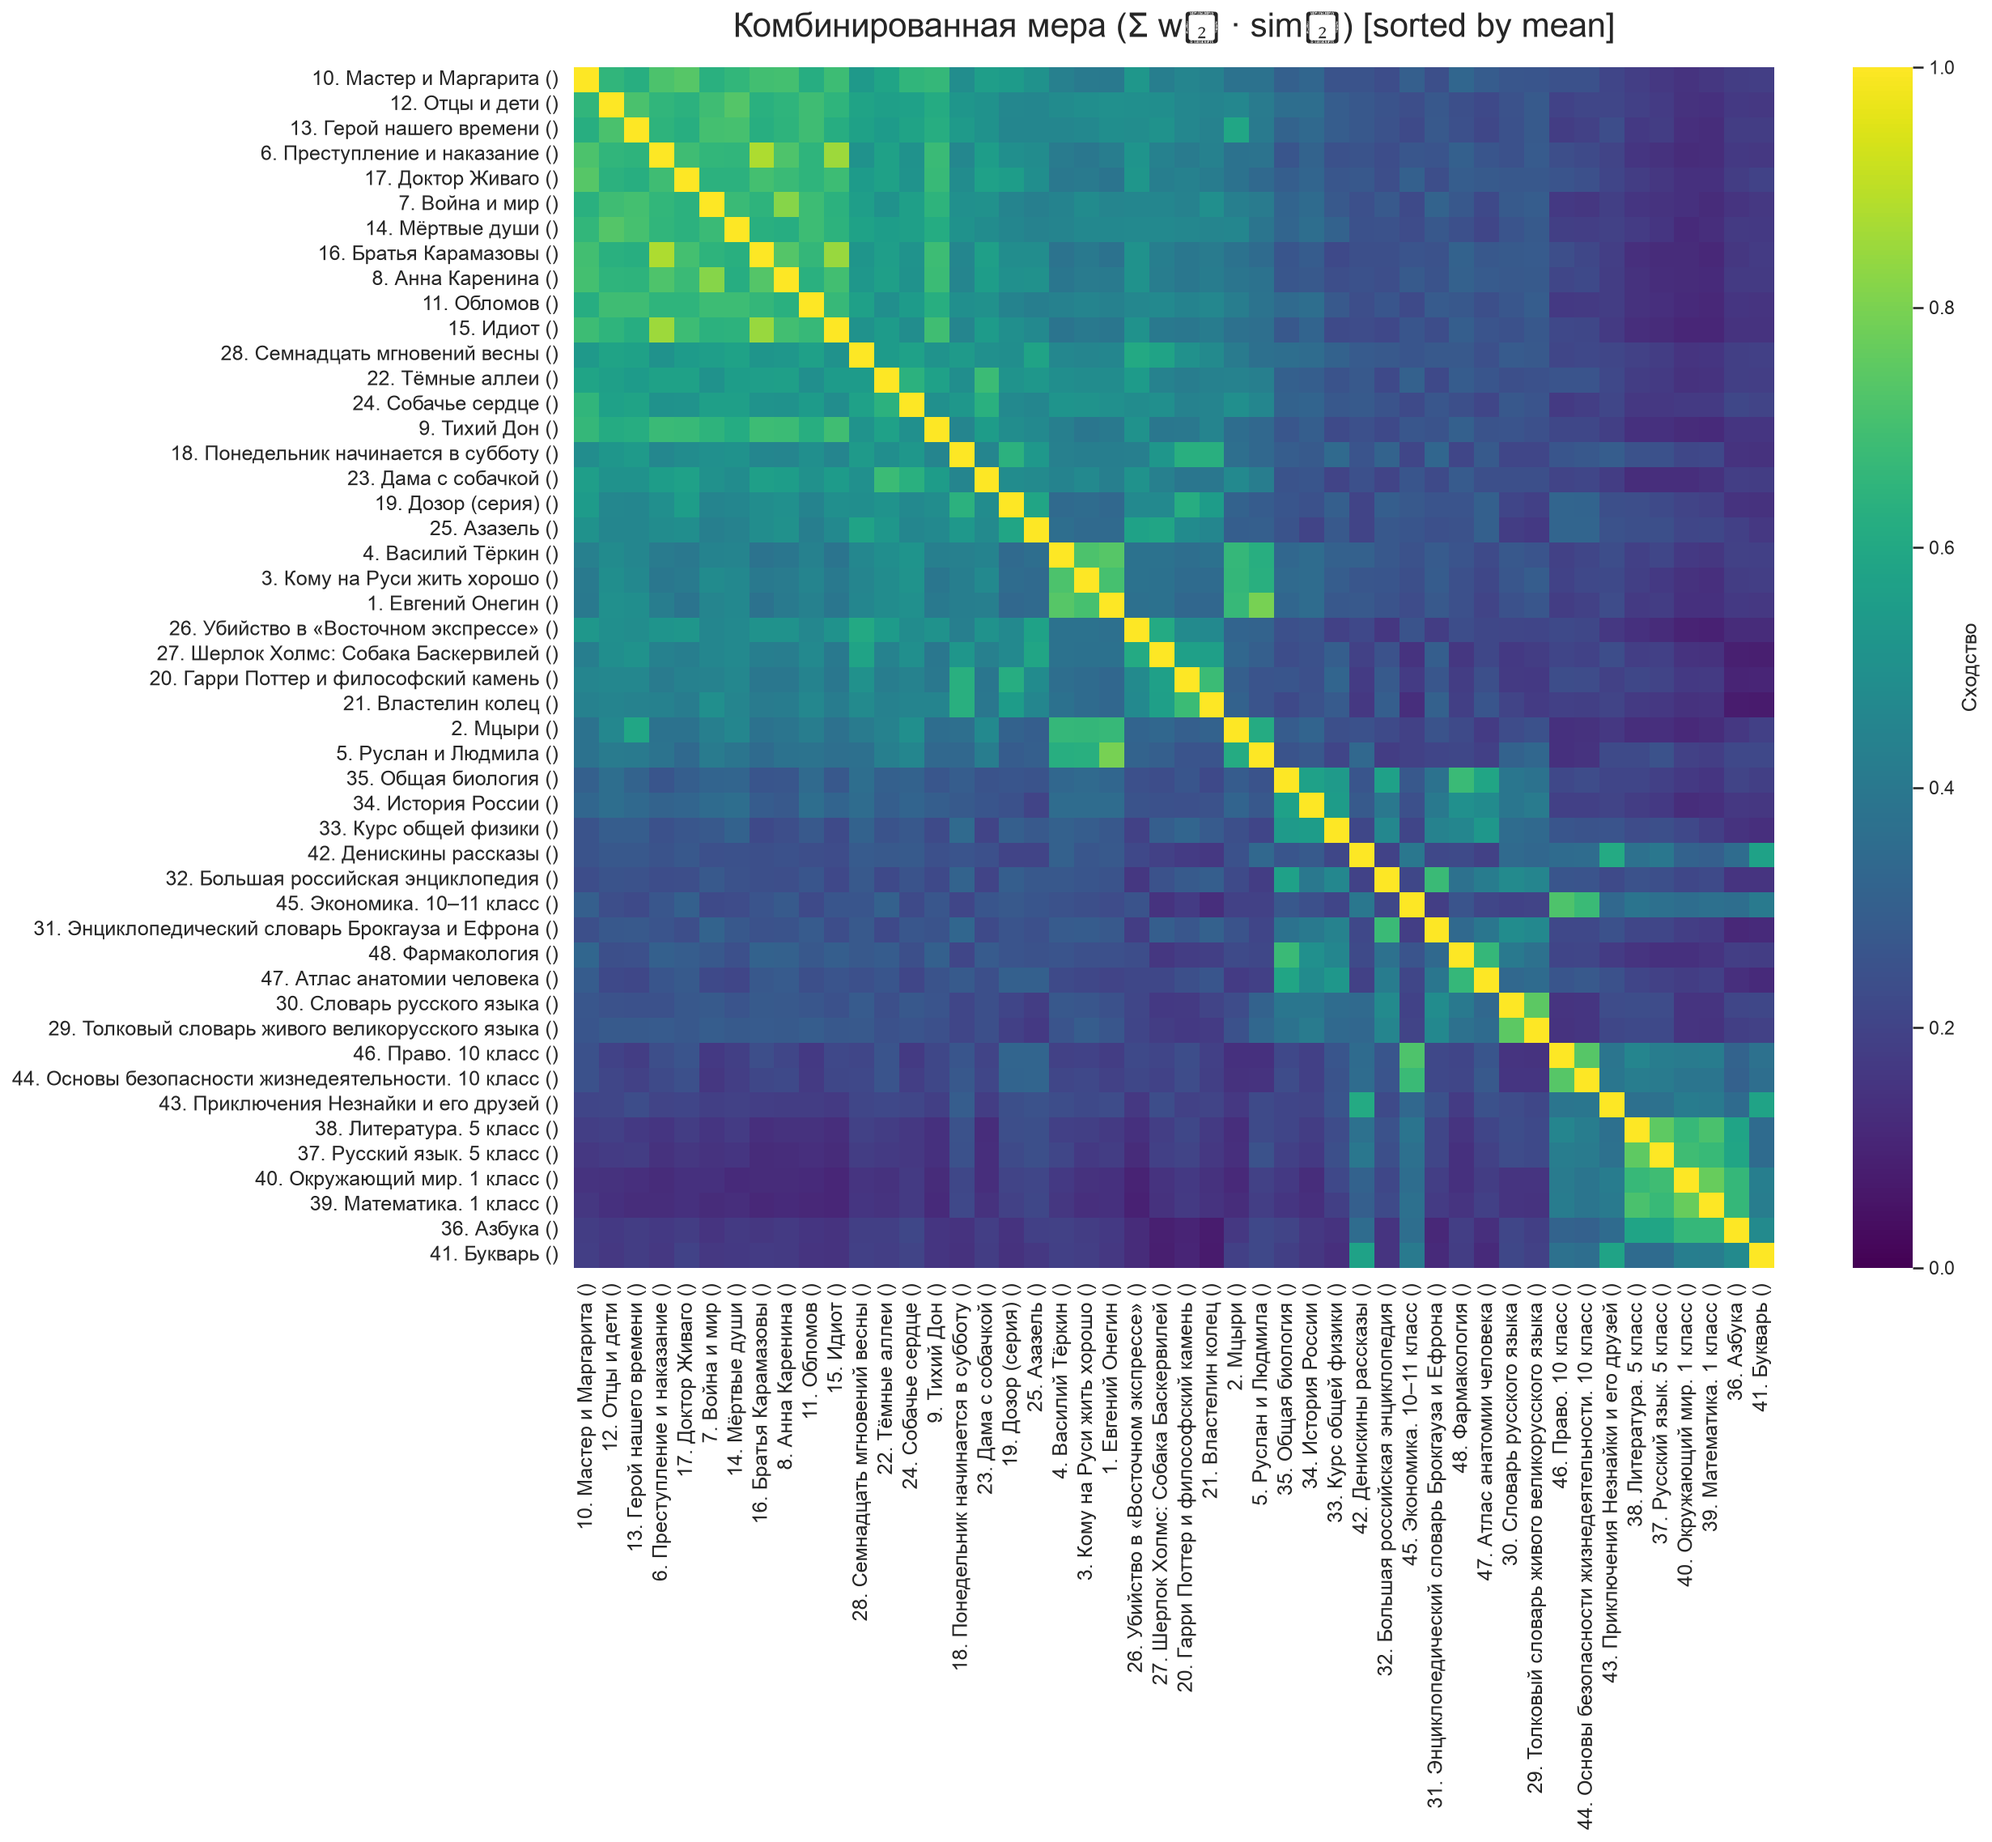
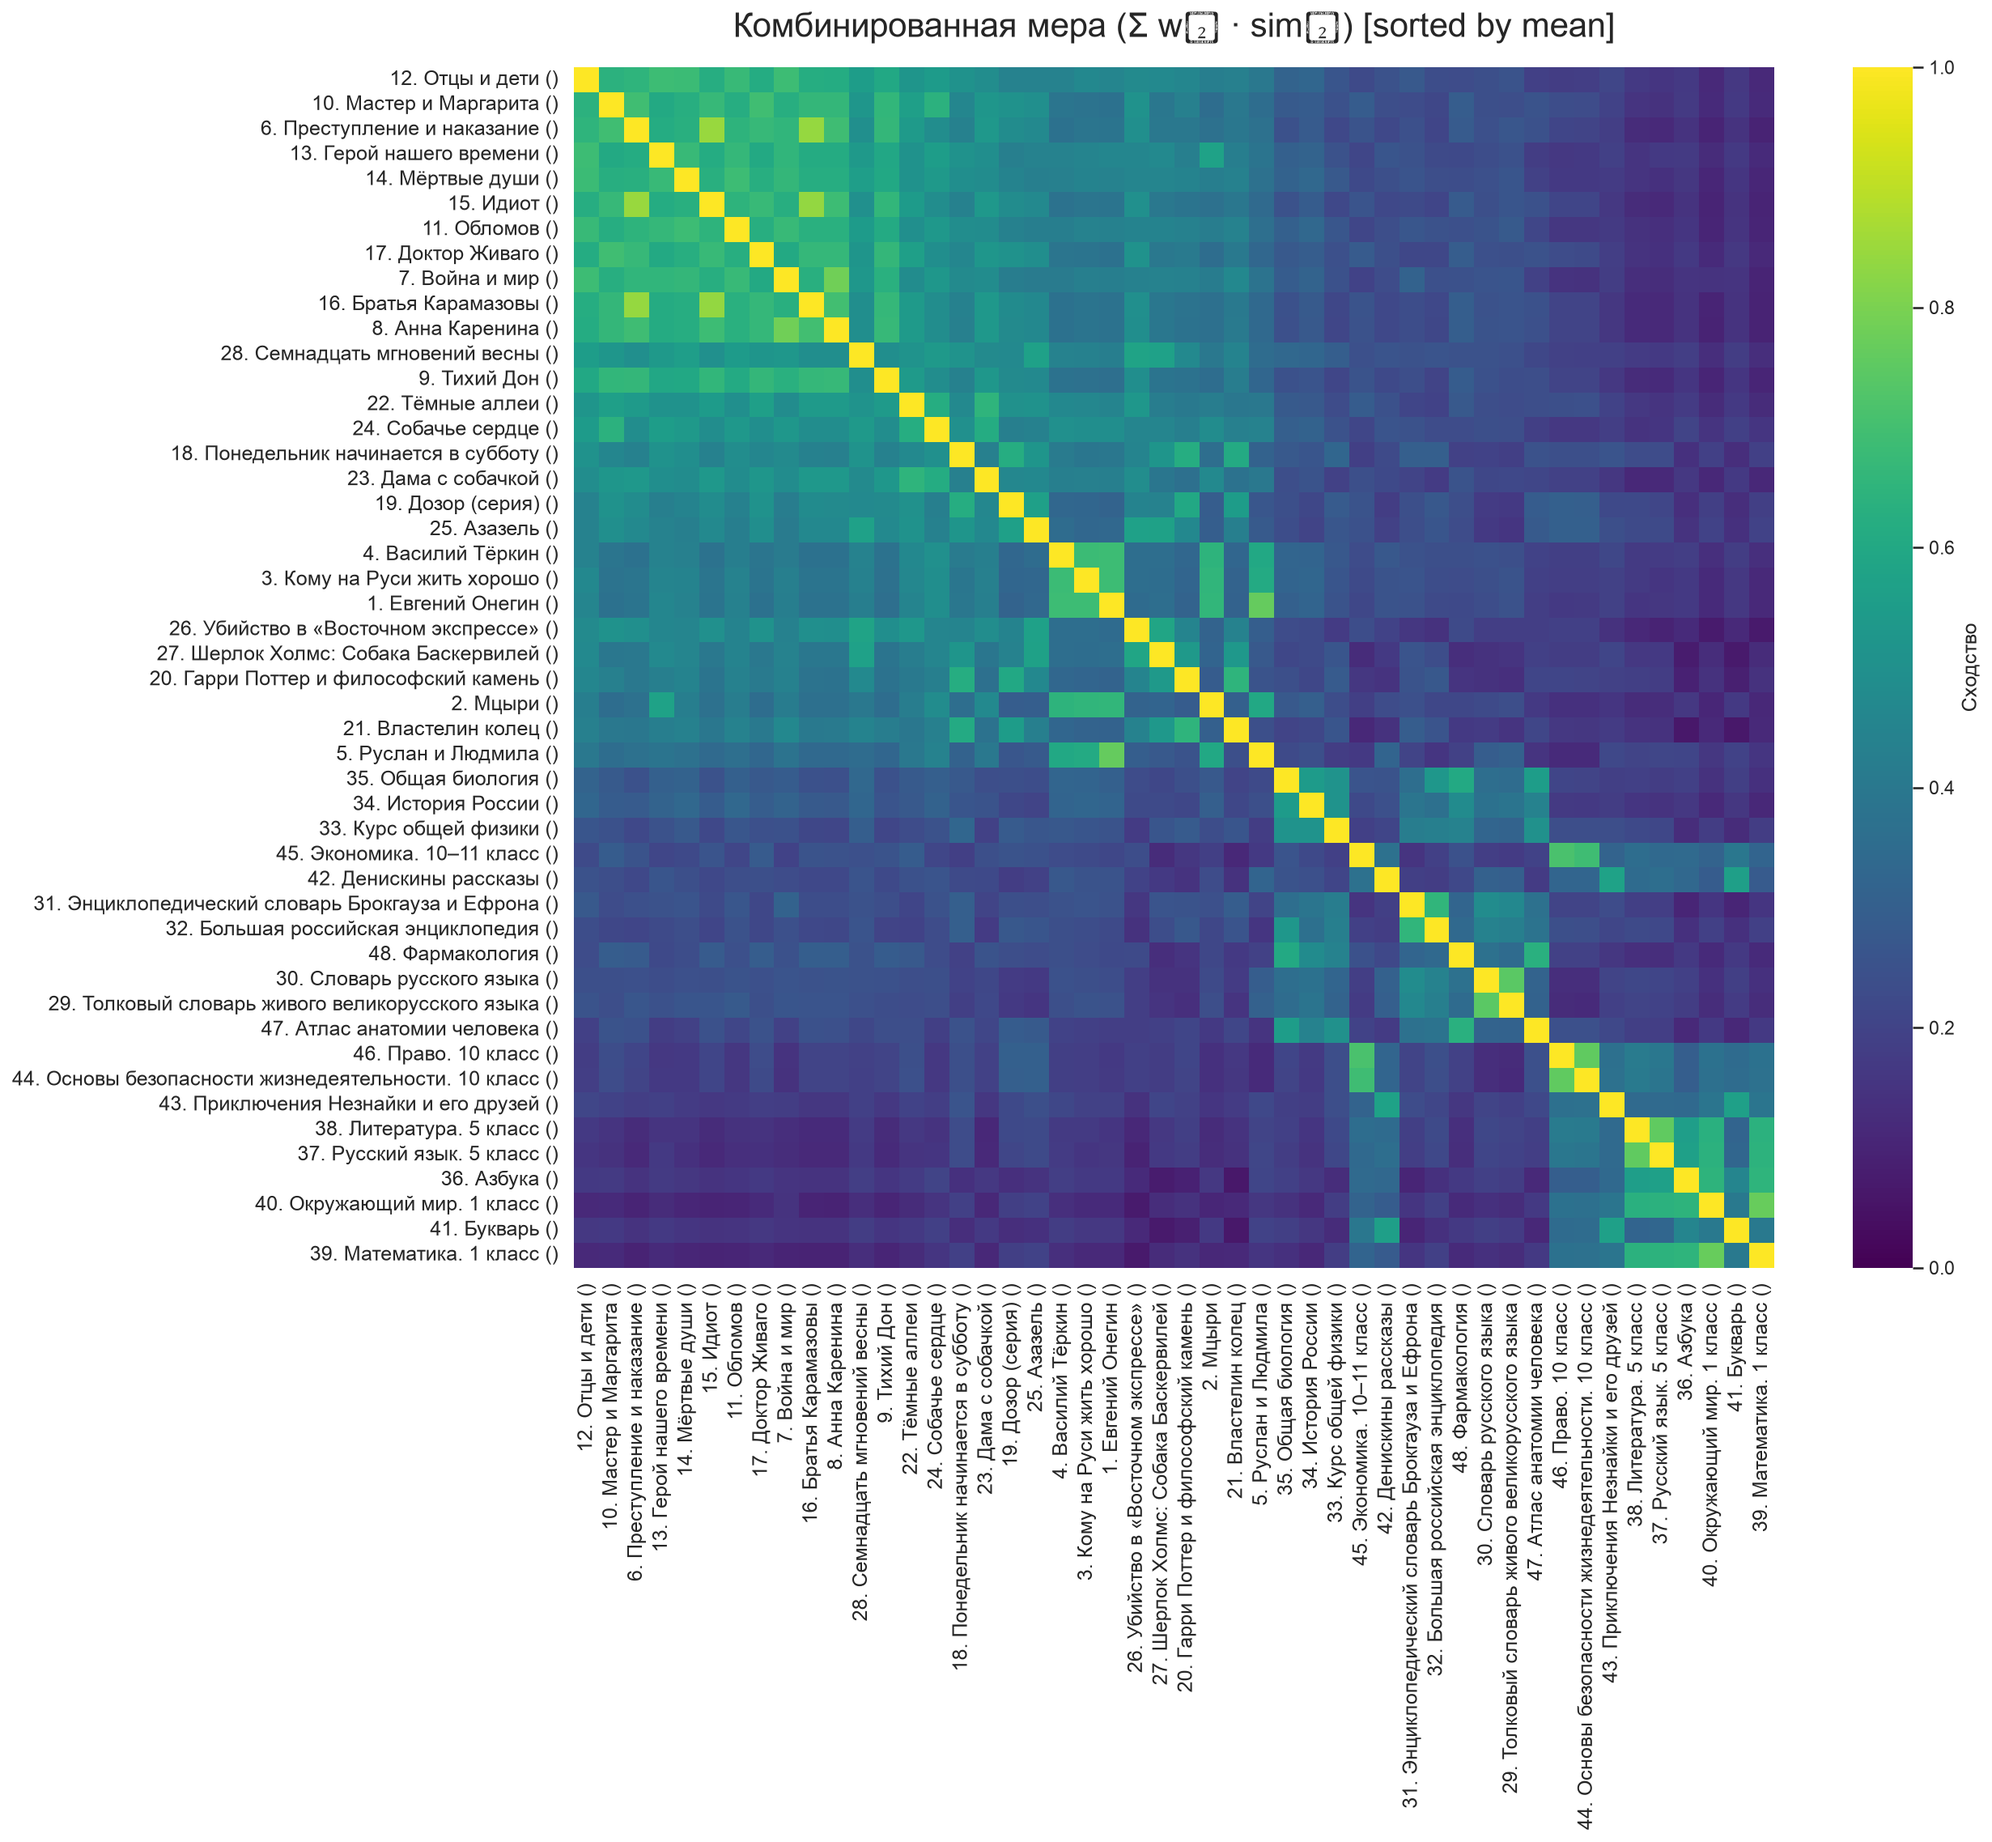
Изменена мера близоси названий книг на TF–IDF

diff --git a/heatmaps/main.py b/heatmaps/main.py
@@ -7,16 +7,18 @@
 """
 
 import os
+import re
 import numpy as np
 import pandas as pd
 import matplotlib.pyplot as plt
 import seaborn as sns
+import torch  # pip install torch
+import torch.nn.functional as F
 from math import log, exp
-from Levenshtein import distance as lev_distance  # pip install python-Levenshtein
 
 # ----------------------- 0. Настройки -----------------------
 CSV_PATH = "books.csv"
-OUT_DIR = "heatmaps"
+OUT_DIR = "heatmaps/heatmap_imgs"
 os.makedirs(OUT_DIR, exist_ok=True)
 
 # >>> ФЛАГ СОРТИРОВКИ <<<
@@ -118,11 +120,33 @@ def sim_author(i, j):
     B = authors_set(df.loc[j, "Автор"])
     return len(A & B) / len(A | B) if (A | B) else 0.0
 
+# -------- Названия: TF-IDF + cosine similarity (PyTorch) --------
+def tokenize_title(title):
+    """Нормализует название и выделяет слова и числа как отдельные токены."""
+    normalized = str(title).lower().replace("ё", "е")
+    return re.findall(r"[^\W_]+", normalized, flags=re.UNICODE)
+
+
+title_tokens = [tokenize_title(title) for title in df["Название"]]
+title_vocabulary = sorted({token for tokens in title_tokens for token in tokens})
+title_token_index = {token: index for index, token in enumerate(title_vocabulary)}
+
+# TF: число вхождений токена в названии; IDF снижает вклад частых слов.
+title_tf = torch.zeros((N, len(title_vocabulary)), dtype=torch.float32)
+for row_index, tokens in enumerate(title_tokens):
+    for token in tokens:
+        title_tf[row_index, title_token_index[token]] += 1
+
+title_document_frequency = (title_tf > 0).sum(dim=0)
+title_idf = torch.log((N + 1) / (title_document_frequency + 1)) + 1
+title_tfidf = title_tf * title_idf
+title_vectors = F.normalize(title_tfidf, p=2, dim=1)
+title_similarity_matrix = torch.clamp(title_vectors @ title_vectors.T, 0.0, 1.0)
+
 def sim_title(i, j):
-    t1, t2 = str(df.loc[i, "Название"]), str(df.loc[j, "Название"])
-    if not t1 and not t2:
+    if not title_tokens[i] and not title_tokens[j]:
         return 1.0
-    return 1.0 - lev_distance(t1, t2) / max(len(t1), len(t2))
+    return float(title_similarity_matrix[i, j])
 
 # ----------------------- 2b. Комбинированная мера -----------------------
 def sim_combined(i, j):
@@ -186,7 +210,7 @@ matrices = {
         "values": df["Автор"].tolist(),
     },
     "title_sim": {
-        "title": "Название (Левенштейн)",
+        "title": "Название (TF-IDF + cosine)",
         "matrix": build_matrix(sim_title),
         "values": df["Название"].tolist(),
     },

diff --git a/README.md b/README.md
@@ -220,13 +220,50 @@ $$
 
 ### Название
 
-Сравниваем через расстояние Левенштейна нормированное:
+**TF–IDF** — превращает текст в числовой вектор, где каждое слово получает вес по своей важности.
+
+- **TF (Term Frequency)** — как часто слово встречается в данном названии. Чем чаще, тем важнее для этого названия.
+- **IDF (Inverse Document Frequency)** — насколько слово редкое во всём каталоге. Чем реже встречается в других названиях, тем информативнее.
+
+#### Формула веса
 
 $$
-sim_{title}(t_i, t_j) = 1 - \frac{Lev(t_i, t_j)}{\max(|t_i|, |t_j|)}
+TF\text{-}IDF(w, t) = TF(w, t) \cdot IDF(w),
+\qquad
+IDF(w) = \log\frac{N + 1}{DF(w) + 1} + 1
 $$
 
-где $Lev$ — расстояние левенштейна.
+где:
+- $w$ — токен (слово);
+- $t$ — название;
+- $TF(w, t)$ — сколько раз токен $w$ встречается в названии $t$;
+- $N$ — общее число названий в каталоге;
+- $DF(w)$ — в скольких названиях встречается токен $w$;
+
+Каждое название $t$ превращается в вектор $\vec{v}_{TF\text{-}IDF}(t)$, где:
+- каждая координата — один токен из общего словаря;
+- значение координаты — вес $TF\text{-}IDF$ этого токена в названии.
+
+Например, совпадение токена «класс» сближает названия учебников, но влияет слабее, чем совпадение редкого слова.
+
+#### Формула сходства
+
+Сходство двух названий — косинус между их нормированными TF–IDF-векторами:
+
+$$
+sim_{title}(t_i, t_j) =
+\frac{\vec{v}_{TF\text{-}IDF}(t_i) \cdot \vec{v}_{TF\text{-}IDF}(t_j)}
+{\lVert\vec{v}_{TF\text{-}IDF}(t_i)\rVert_2\,\lVert\vec{v}_{TF\text{-}IDF}(t_j)\rVert_2}
+$$
+
+где:
+- $t_i, t_j$ — сравниваемые названия;
+- $\vec{v}_{TF\text{-}IDF}(t)$ — вектор названия;
+- числитель — скалярное произведение: растёт при совпадении значимых токенов;
+- $\lVert\vec{v}\rVert_2$ — евклидова длина вектора; деление на длины убирает преимущество длинных названий;
+- результат — косинус угла между векторами.
+
+
 
 ### Автор
 
